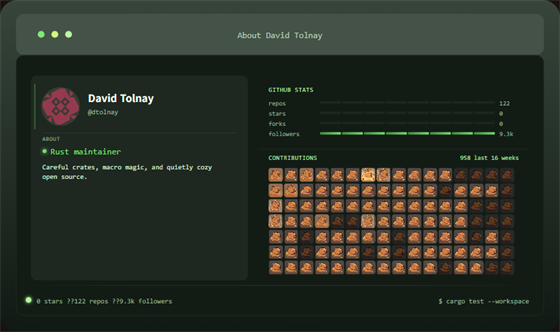
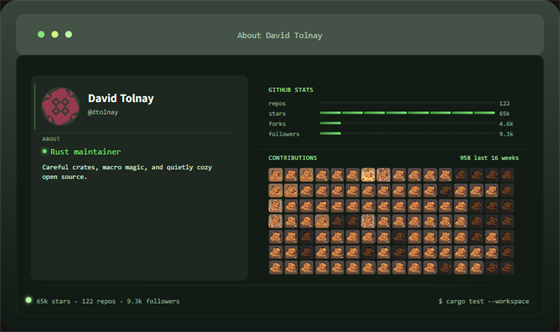
Fix broken footer stat separators

Changed region(s): [[0.5768, 0.3313, 0.9107, 0.3916], [0.0607, 0.8735, 0.3339, 0.9337], [0.6071, 0.3916, 0.8804, 0.4217]]

diff --git a/terminal-card.js b/terminal-card.js
@@ -1149,9 +1149,9 @@
       return state.status;
     }
 
-    return `${formatCompactStat(state.githubStats.stars)} stars ??${formatCompactStat(
+    return `${formatCompactStat(state.githubStats.stars)} stars - ${formatCompactStat(
       state.githubStats.repos
-    )} repos ??${formatCompactStat(state.githubStats.followers)} followers`;
+    )} repos - ${formatCompactStat(state.githubStats.followers)} followers`;
   }
 
   function buildGraphic(ratio, bx, rowY, barTrack, accentColor, trackBg, style, gradientId) {
